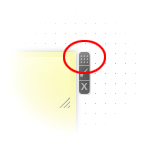
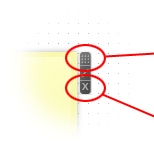
add delete notes into tooltips - closes #911

Changed region(s): [[0.3896, 0.2797, 1.0, 0.8671]]

diff --git a/de.bht.swp.lao.ocp/src/main/webapp/resources/templates/modules/tooltips/tooltips.html b/de.bht.swp.lao.ocp/src/main/webapp/resources/templates/modules/tooltips/tooltips.html
@@ -2,78 +2,81 @@
     <h1>Hello and welcome to [lao]</h1>
     [lao] (look ahead online) is an online collaboration tool for the development of ideas, 
     brainstorming or just collecting information during a project. All this can be done interactive and 
-    in real-time with colleagues or friends.<br/>
-    <br/>
+    in real-time with colleagues or friends.<br>
+    <br>
     You have a multitude of possibilities to present your information. For example place notes, upload files or 
     add pictures to the [lao]-whiteboard. The whiteboard is your interactive platform for working collaboratively with 
     a chosen group of colleagues or friends. <br>
-    <br/>
-    Take the interactive tour, where you will see all the important features and get a quick overview of the whiteboard.<br/>
-    <br/>
-    Enjoy using this tool!<br/>
-    <br/>
-    <input type="button" class="closeToolTip" value="Close window" />
-    <input type="button" class="nextToolTip" value="Start tour" />
+    <br>
+    Take the interactive tour, where you will see all the important features and get a quick overview of the whiteboard.<br>
+    <br>
+    Enjoy using this tool!<br>
+    <br>
+    <input type="button" class="closeToolTip" value="Close window">
+    <input type="button" class="nextToolTip" value="Start tour">
     
     <div class="showAgain">
-        <input type="checkbox" name="showAgain" id="showAgain" value="1" checked="checked"/> Don't show this again!
+        <input type="checkbox" name="showAgain" id="showAgain" value="1" checked="checked"> Don't show this again!
     </div>
 </div>
 <div class="bubble" id="createNote" data-type="tooltip">
     <img src="resources/images/tooltips/bottom.png" class="bottom" style="left:5px" alt="">
     <button class="closeToolTip">X</button>
     <h2>Create a note</h2>
-    Create a note on the Whiteboard and add textual information. You can add some text, later edit it, move the note or delete it.<br/>
-    <br/>
+    Create a note on the Whiteboard and add textual information. You can add some text, later edit it, move the note or delete it.<br>
+    <br>
     Every note can be edited by everyone else, who is assigned to the whiteboard. The only exception is, while somebody is editing a note, 
-    nobody else can edit it.<br/>
-    <br/>
-    <input type="button" class="prevToolTip" value="Back" />
-    <input type="button" class="nextToolTip" value="Next" />
+    nobody else can edit it.<br>
+    <br>
+    <input type="button" class="prevToolTip" value="Back">
+    <input type="button" class="nextToolTip" value="Next">
 </div>
 <div class="bubble" id="uploadFile" data-type="tooltip">
     <img src="resources/images/tooltips/bottom.png" class="bottom" style="left:5px" alt="">
     <button class="closeToolTip">X</button>
     <h2>Upload a file</h2>
     Via clicking on this icon you can add files to the whiteboard. A small window will pop up, 
-    where you can choose the file, which you would like to upload.<br/>
-    <br/>
-    The following file types are allowed: PDF, DOC, DOCx, XLS, PPT, PPTx, ODP, ODF.<br/>
-    <br/>
-    After the upload of the file, a small symbol will appear, which can be moved just like a note.<br/>
-    <br/>
-    <input type="button" class="prevToolTip" value="Back" />
-    <input type="button" class="nextToolTip" value="Next" />
+    where you can choose the file, which you would like to upload.<br>
+    <br>
+    The following file types are allowed: PDF, DOC, DOCx, XLS, PPT, PPTx, ODP, ODF.<br>
+    <br>
+    After the upload of the file, a small symbol will appear, which can be moved just like a note.<br>
+    <br>
+    <input type="button" class="prevToolTip" value="Back">
+    <input type="button" class="nextToolTip" value="Next">
 </div>
 <div class="bubble" id="inviteUser" data-type="tooltip">
     <img src="resources/images/tooltips/top.png" class="top" style="right:120px" alt="">
     <button class="closeToolTip">X</button>
     <h2>Invite a user to a whiteboard</h2>
-    For working collaboratively with others, just invite a user. The only thing you need is the email address of the user.<br/>
-    <br/>
+    For working collaboratively with others, just invite a user. The only thing you need is the email address of the user.<br>
+    <br>
     If the person is already registered, the user can see the whiteboard in his personal overview. Otherwise the system will 
-    register and notify the user via email.<br/>
-    <br/>
-    <input type="button" class="prevToolTip" value="Back" />
-    <input type="button" class="nextToolTip" value="Next" />
+    register and notify the user via email.<br>
+    <br>
+    <input type="button" class="prevToolTip" value="Back">
+    <input type="button" class="nextToolTip" value="Next">
 </div>
 <div class="bubble" id="dragAndDrop" data-type="tooltip">
     <button class="closeToolTip">X</button>
     <h2>Move Whiteboard and Notes</h2>
     You can move your notes and your whiteboard via drag and drop. This allows you to order your notes as you want. You're able
-    to move the whiteboard and every note!<br/>
-    <br/>
+    to move the whiteboard and every note!<br>
+    <br>
     <img src="resources/images/tooltips/moveNotes.png" class="top" style="right:120px" alt="">
-    <br />
+    <br>
     To move the whiteboard, just click on it and move it to your desire position. For notes you'll find a handler to move each
-    one.<br/>
-    <br/>
-    <input type="button" class="prevToolTip" value="Back" />
-    <input type="button" class="nextToolTip" value="Next" />
+    one.<br>
+    <br>
+    If you want to get rit of the note, click on the 'x' sign!<br>
+    <br>
+    <br>
+    <input type="button" class="prevToolTip" value="Back">
+    <input type="button" class="nextToolTip" value="Next">
 </div>
 <div class="lightbox" data-type="tooltip">
     <h1>End of the tour!</h1>
-    Enjoy your whiteboard!<br/>
-    <br/>
-    <input type="button" class="closeToolTip" value="Close window" />
+    Enjoy your whiteboard!<br>
+    <br>
+    <input type="button" class="closeToolTip" value="Close window">
 </div>
